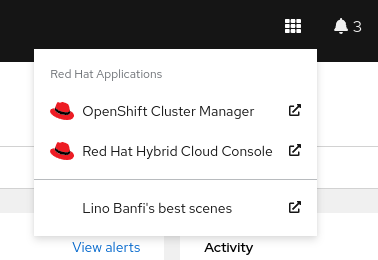
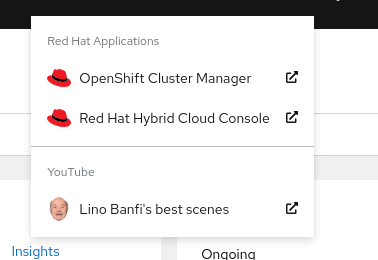
Link

diff --git a/README.md b/README.md
@@ -31,6 +31,9 @@ Result:
 
 ## Web console link
 
+- Using sub-sections amd image logo
+- image logo is resized to 24x24 px
+
 ```
 apiVersion: console.openshift.io/v1
 kind: ConsoleLink
@@ -40,6 +43,10 @@ spec:
   href: 'https://www.youtube.com/watch?v=jW5wBHUQDMI'
   location: ApplicationMenu 
   text: Lino Banfi's best scenes
+  applicationMenu:
+    section: YouTube
[1 lines of base64/hex data omitted]
+
 ```
 
 Result:
